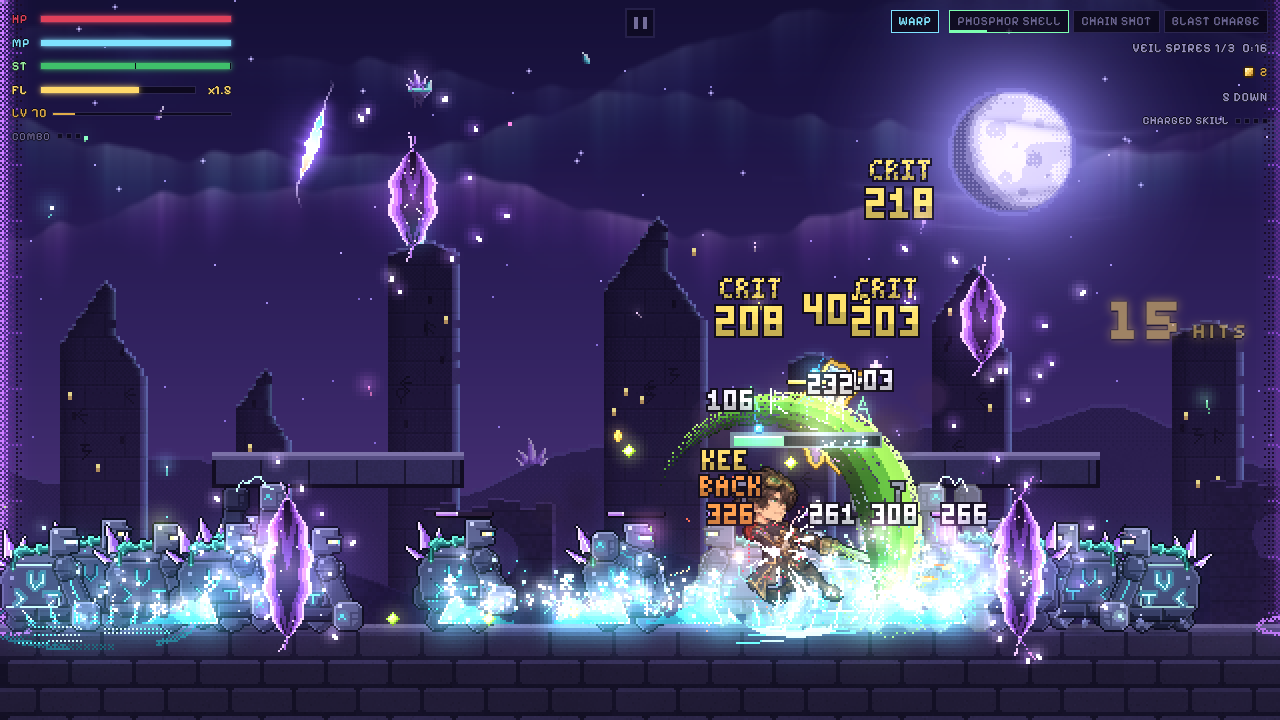
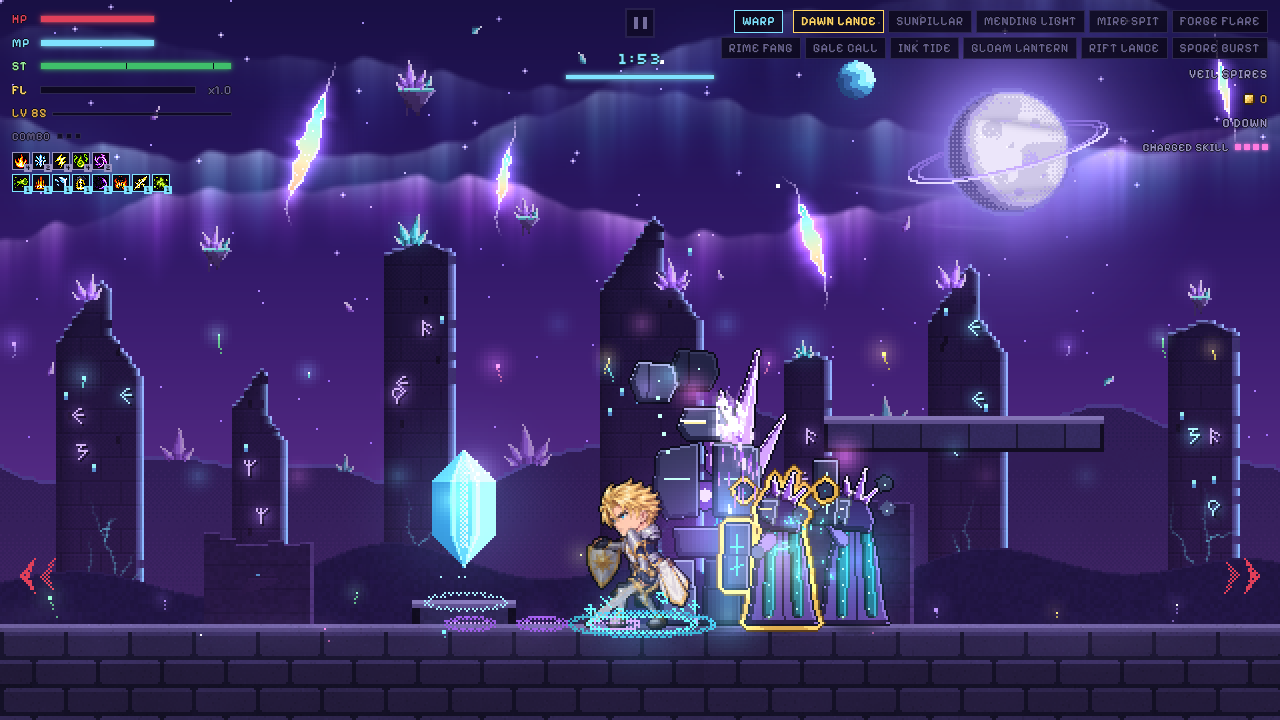
Show the crystal defense in the README media and drop Rift Surges from the growth design

diff --git a/README.md b/README.md
@@ -26,7 +26,7 @@ Kael is the last of the knights, and eight other sword fighters now carry blades
 Eight rifts have torn open across the land, each guarded by a lord that came through it, and behind them all waits the Abyss Citadel.
 
 <p align="center">
-  <img src="docs/media/gameplay.gif" alt="Gameplay: Kael tears through a Rift Surge in the Abyss Citadel as Storm arcs and Void echoes chain from foe to foe" width="100%">
+  <img src="docs/media/gameplay.gif" alt="Gameplay: Kael holds the Warp crystal in the Sunlit Ruins after minute six, cutting down foes from both sides as they strike it" width="100%">
 </p>
 
 ## Stages
@@ -90,11 +90,11 @@ A cleared stage can be bought in Hyper with gold: faster foes, twice the gold, a
   </tr>
   <tr>
     <td><img src="docs/media/stage-blight.png" alt="Brynn in Blightroot Hollow among glowing spores and roots"></td>
-    <td><img src="docs/media/stage-veil.png" alt="Calder fights a Rift Surge of Rune Golems in Veil Spires"></td>
+    <td><img src="docs/media/stage-veil.png" alt="Aldric guards the crystal in Veil Spires as a Spire Colossus raises its fists to slam"></td>
   </tr>
   <tr>
     <td align="center">Blightroot Hollow</td>
-    <td align="center">A Rift Surge in Veil Spires</td>
+    <td align="center">Spire Colossus, Veil Spires</td>
   </tr>
 </table>
 
@@ -121,11 +121,11 @@ A card says what it adds to your Resonance and when it would complete a Fusion; 
 <table>
   <tr>
     <td><img src="docs/media/cards.png" alt="Skill cards coloured by element, each showing the Resonance it adds"></td>
-    <td><img src="docs/media/shot-surge.png" alt="A late build in the Abyss Citadel: arcs, echoes and five-figure hits across a Rift Surge"></td>
+    <td><img src="docs/media/shot-late-build.png" alt="A late Storm and Void build in the Abyss Citadel: arcs and echoes chain through a crowd"></td>
   </tr>
   <tr>
     <td align="center">Cards and Resonance</td>
-    <td align="center">A late build in a Citadel Surge</td>
+    <td align="center">A late build in the Abyss Citadel</td>
   </tr>
 </table>
 

diff --git a/docs/growth-design.md b/docs/growth-design.md
@@ -62,15 +62,15 @@ A Fusion's name stays ??? on cards and in the Codex until the player has made it
 `SHARD_GAIN`, `SHARD_DROP` and `SHARD_MOTION` in `src/constants/vitals.ts`, the drops in `src/game/shards.ts`.
 
 - A Heart Shard adds 3 max HP for the run; a Mana Shard adds 2 max MP. The new room fills at once.
-- Every boss and mini boss drops one of each. The last foe of a Rift Surge, or of a wave in wave mode, drops a Heart Shard.
+- Every boss and mini boss drops one of each. In wave mode the last foe of a wave also drops a Heart Shard.
 - An elite drops each kind with a 10% chance; any other foe with a 0.15% chance. Training drops none.
 - Shards pop out, fall and bounce, and are picked up by touch. Any left lying fly to the nearest standing hero after 7 seconds, so none is lost.
 - Picking one up shows a banner ("Heart Shard +3 max HP", with the player's tag in a room), a ring and a burst in the shard's colour, and the bar flashes.
 - The HP and MP bars start at 60% of their width and grow to full as shards come in: full at 36 Heart Shards and 21 Mana Shards (`VITAL_BAR`).
 - The shard counts live in `progress`, so each player in a room keeps their own.
 
-Tuning: a Rift Stage has 9 Rift Surges, an elite at the end of the opening, a mini boss, a boss and about 45 surge elites.
-That comes to about 14 Heart Shards (+42 HP) and 7 Mana Shards (+14 MP) on average by level 99.
+Tuning: in a crystal defense the sure shards come from the mini boss and the boss on the clock.
+The rest come from elites: the elite called at 1:35, every third foe from the East (`SIDE_STYLE`), and every foe at the stage's own elite rate (`eliteEvery` in its modifiers), so stages with more elites give more shards.
 
 ## Pacts: drain and regeneration
 
